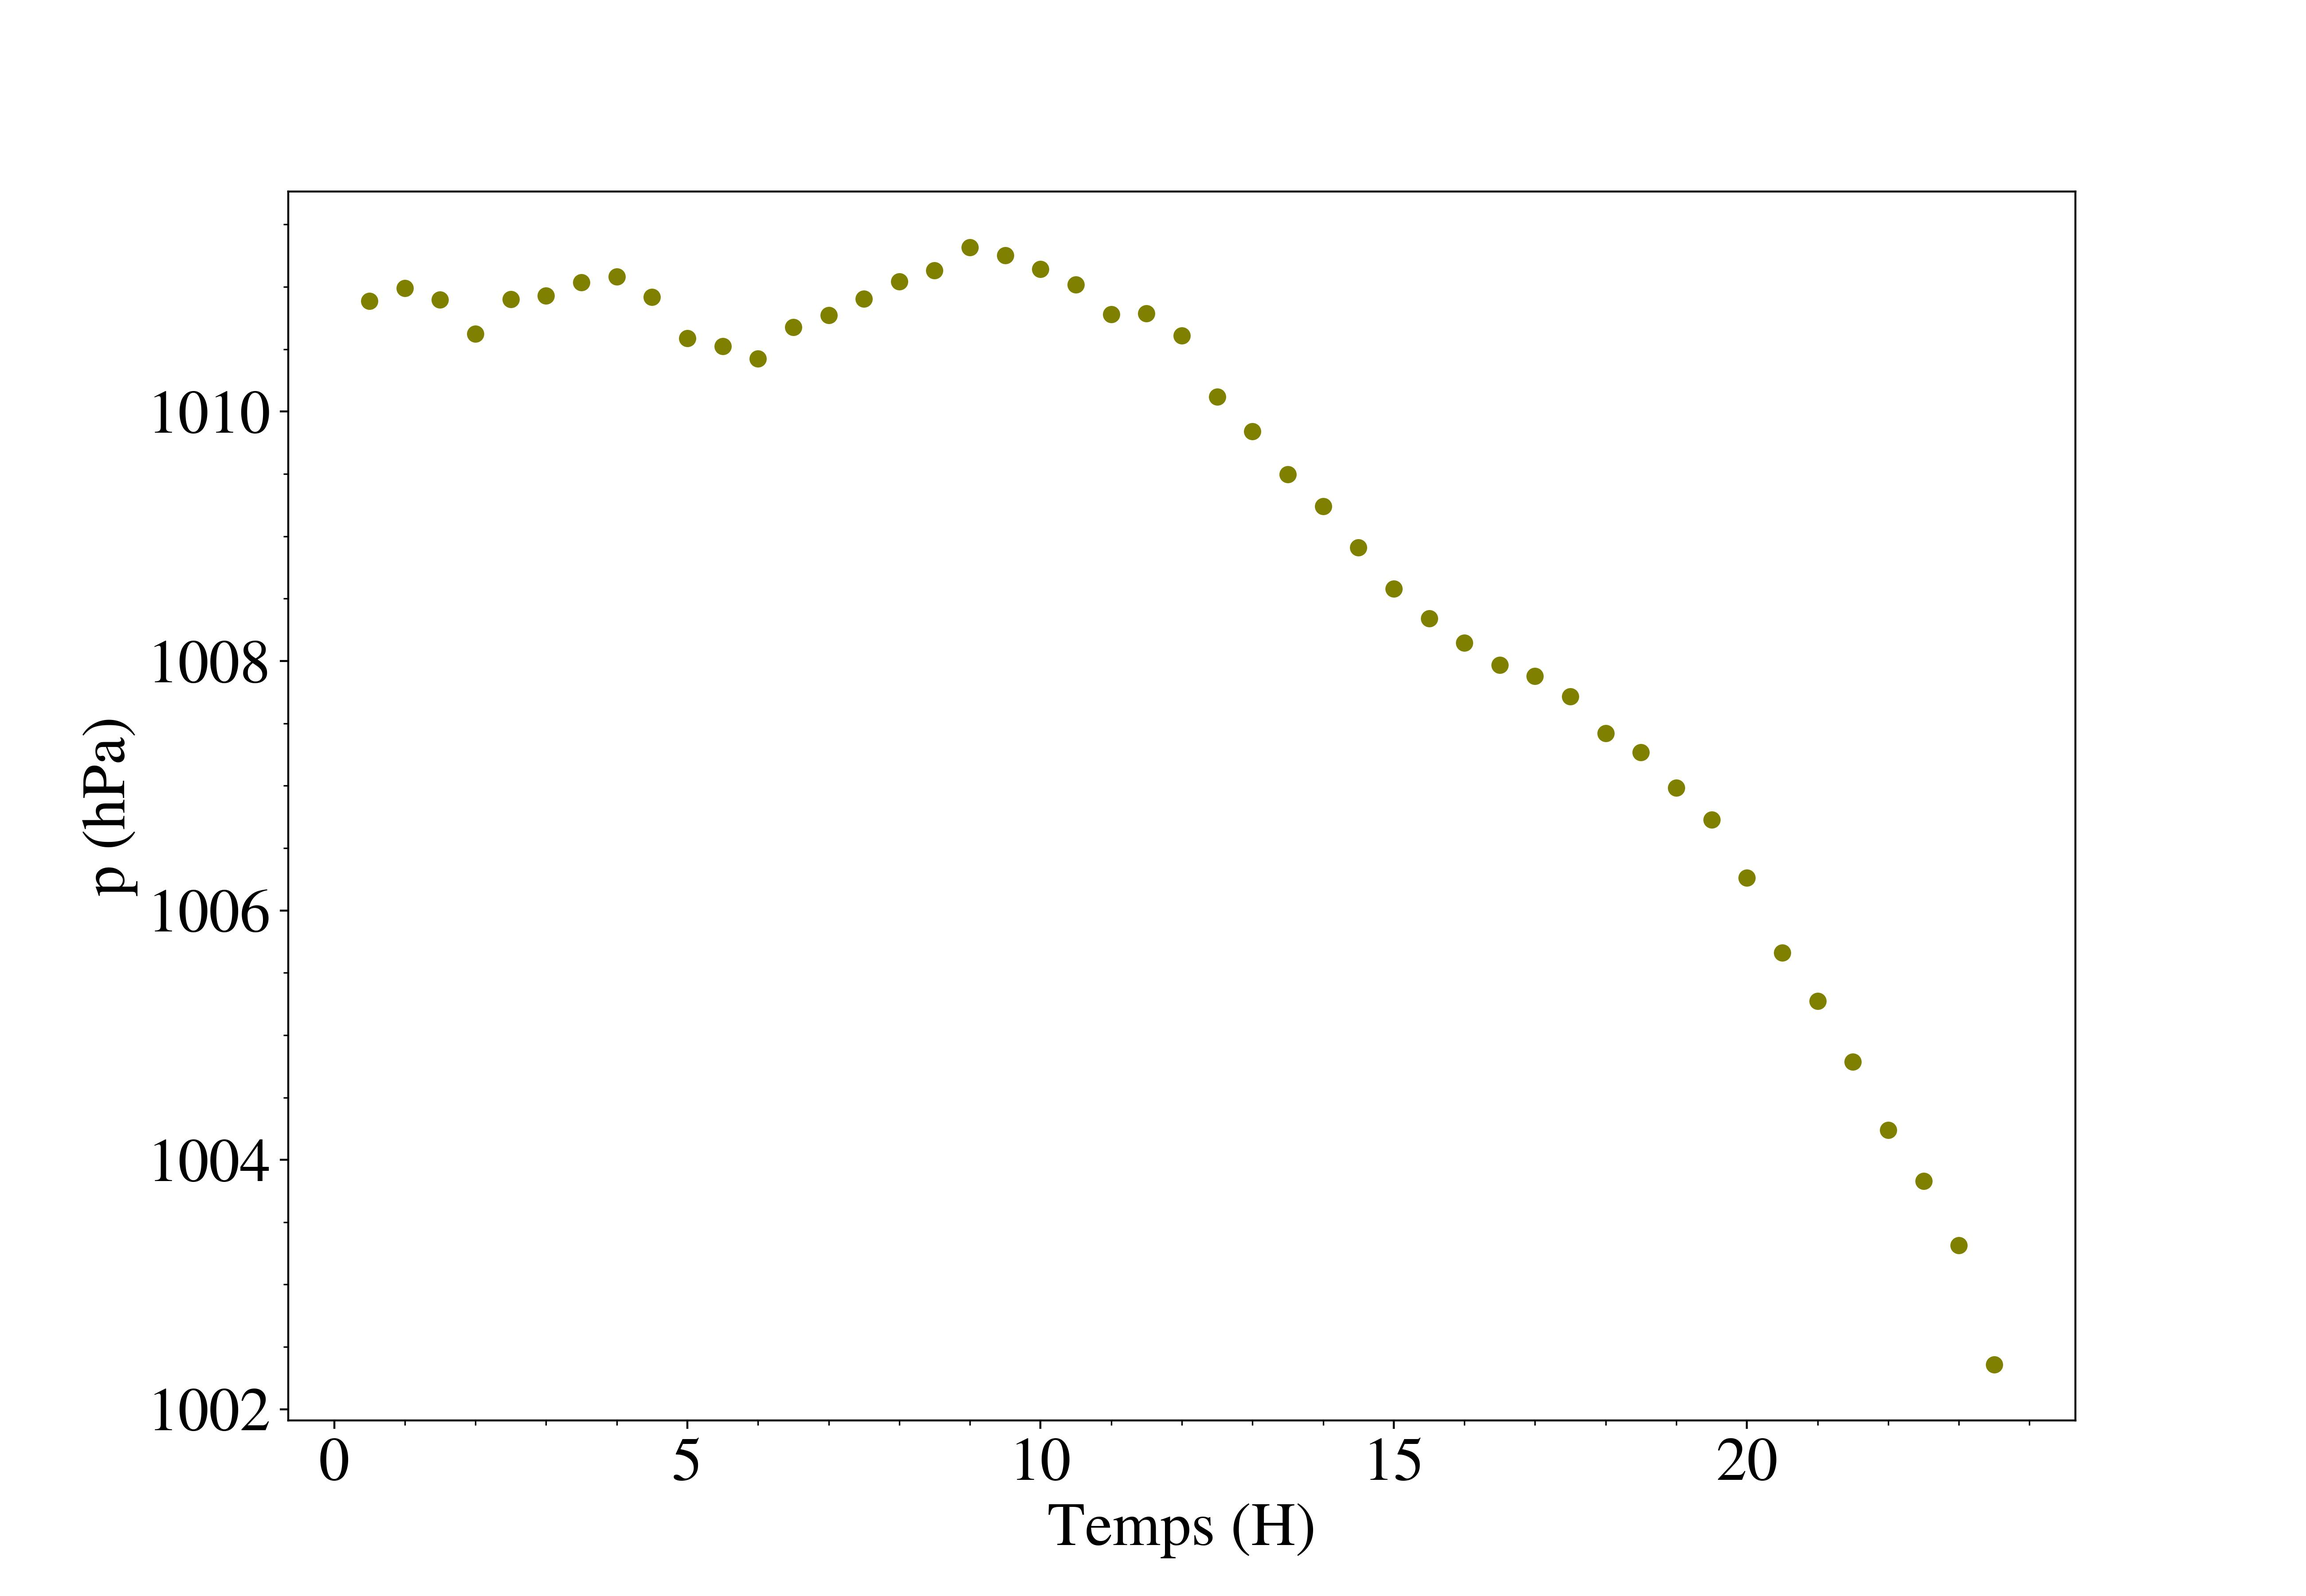
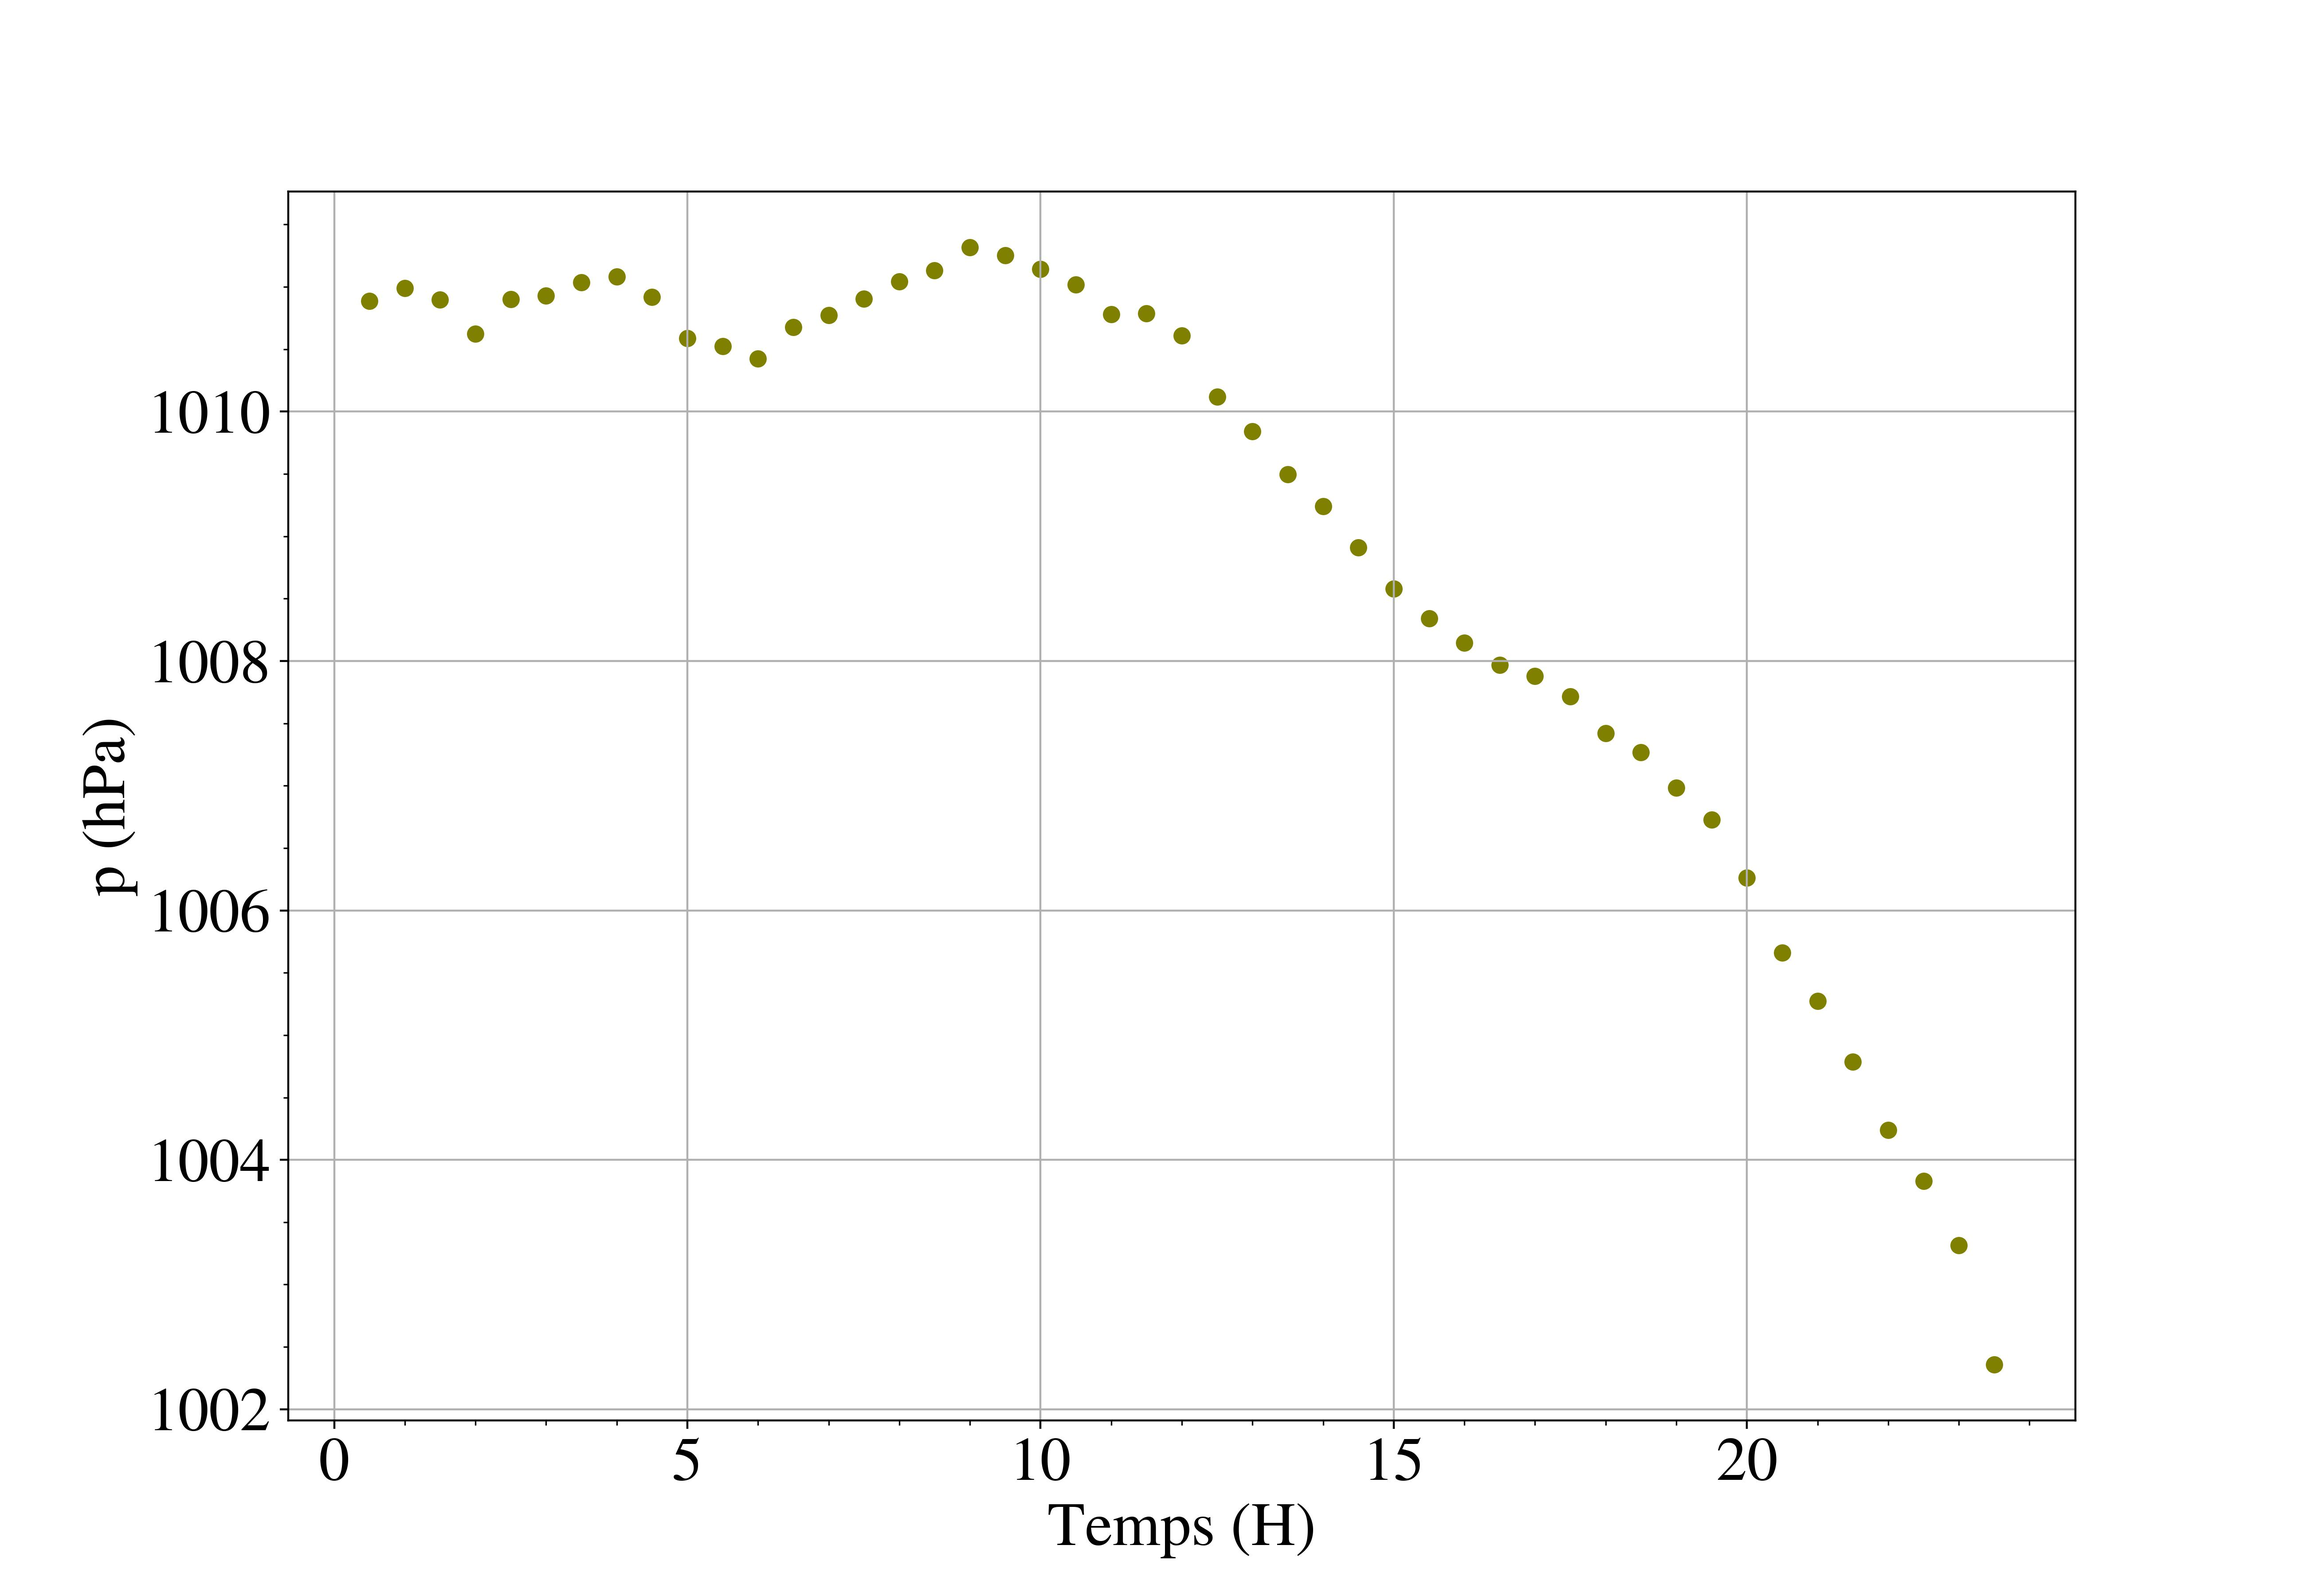
Afegit grid per a ajudar amb la visualització de les dades experimentals

diff --git a/P2_ControlSensibilitat.py b/P2_ControlSensibilitat.py
@@ -13,7 +13,6 @@ import matplotlib.pyplot as plt
 
 # Importam les funcions auxiliars desde una altra arxiu
 import funcions as fun
-from P1_ReprDades import data, q1, q2
 
 from importlib import reload
 reload(fun)
@@ -24,4 +23,20 @@ import matplotlib as mp
 mp.rcParams['mathtext.fontset'] = 'stix'
 mp.rcParams['font.family'] = 'STIXGeneral'
 mp.rcParams.update({'font.size': 15})
+
+##############################################################
+##################### Dades necessaries ######################
+##############################################################
+arxiu = "Dades/DADES_26SETEMBRE2020.dat"
+
+colnames = ["time", "H", "LE", "ustar", "z_L", "w_speed",
+            "w_dir", "T", "rel_H", "low_T", "low_rel_H",
+            "p"]
+
+# Llegim les dades de l'arxiu
+data = pd.read_csv(arxiu, sep="\s+", engine='python', 
+                   names=colnames, header=None)
+
+q1 = fun.f_q(data['T'], data['p'], data['rel_H'])
+q2 = fun.f_q(data['low_T'], data['p'], data['low_rel_H'])
 

diff --git a/funcions.py b/funcions.py
@@ -23,6 +23,7 @@ def Grafiques(time: pd.core.series.Series,
     ax.set_xlabel("Temps (H)")
     ax.set_ylabel(ylabel)
     ax.minorticks_on()
+    ax.grid()
 
 def GrafiquesComp(data, yvar, ysemb, ylabel,
                   colorvar="mediumseagreen", 
